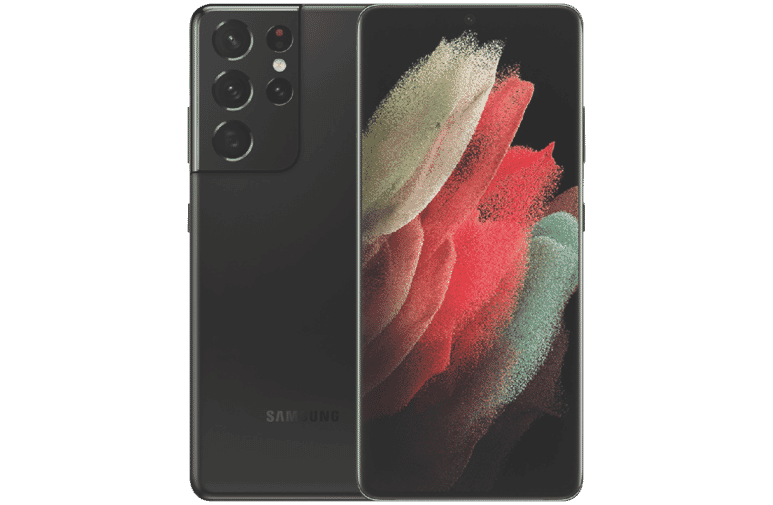
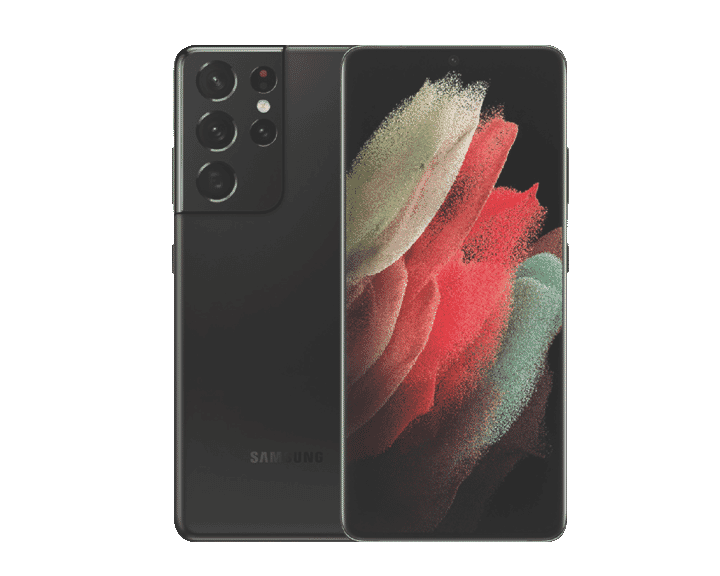
imagens redimensionadas; alteração estilo

Changed region(s): [[0.2139, 0.0, 0.7944, 1.0], [0.3361, 0.7723, 0.3667, 0.8317]]

diff --git a/index.html b/index.html
@@ -86,15 +86,16 @@
         </div>
         <div class="row padding">
             <div class="col-md-4 col-lg-3">
-                <div class="card">
-                    <div class="card-header text-center bg-dark text-white">
-                        Para o seu celular
-                    </div>
+                <div class="card border-0">
                     <img src="img/Galaxy A71.png" alt="">
                     <div class="card-body">
-                        <h5 class="card-title">Card title</h5>
-                        <p class="card-text">Lorem ipsum dolor sit amet consectetur adipisicing elit. Earum nobis ipsam omnis, repellat vel eum quibusdam, labore asperiores quasi, laborum eaque officiis consectetur! Quidem ratione, deserunt praesentium eveniet facilis mollitia!</p>
-                        <a href="" class="btn btn-primary">Ver mais</a>
+                        <h5 class="card-title">Samsung Galaxy A71</h5>
+                        <p class="lead mt-4">Plano total</p>
+                        <h5 class="font-weight-bold display-5 mt-1">
+                            R$ 1.979,10
+                        </h5>
+                        <p class="lead">12x R$ 174,91 s/ juros</p>
+                        <a href="" class="btn btn-outline-primary mt-3">Ver mais</a>
                     </div>
                 </div>
             </div>
